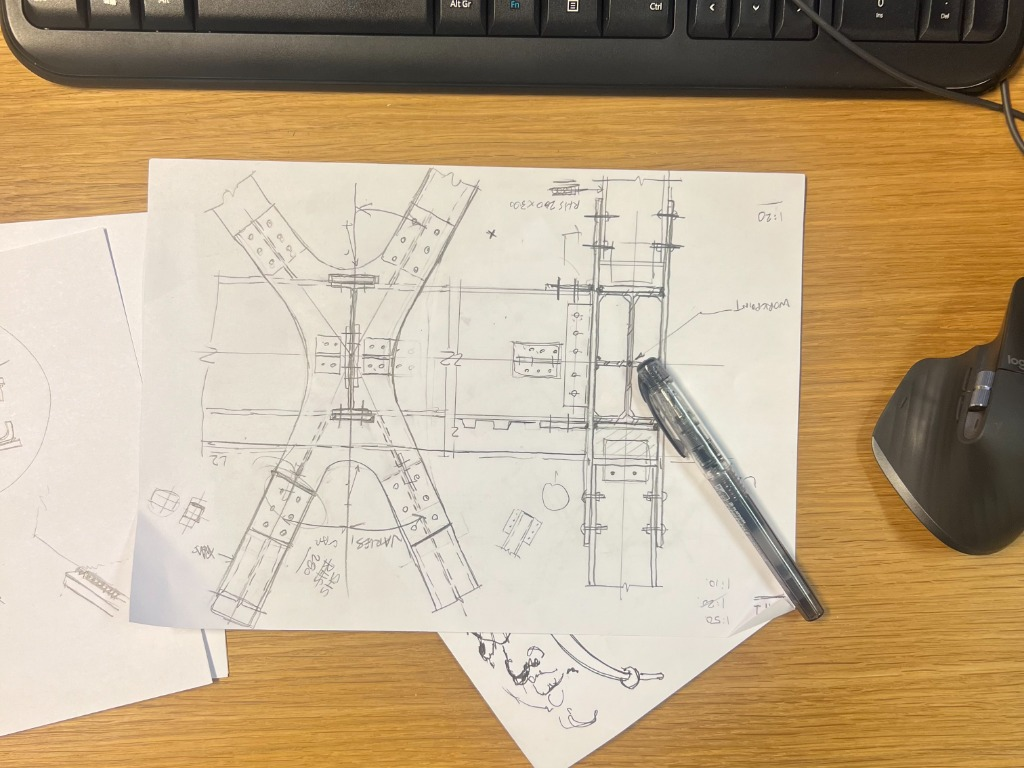
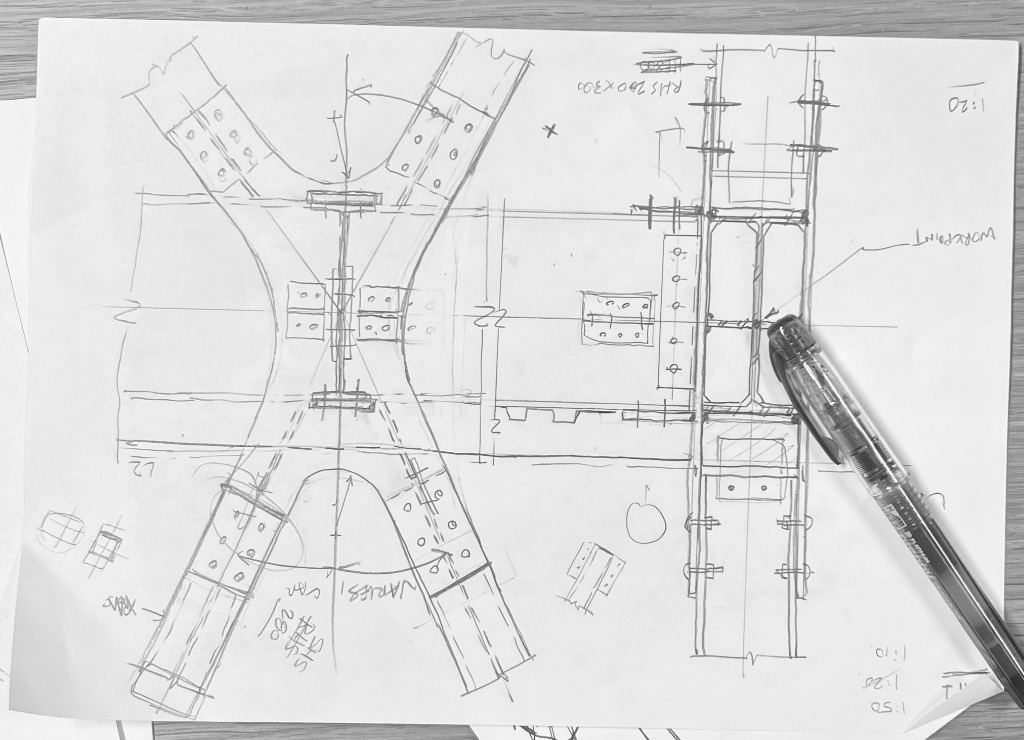
Content: update Foster + Partners description and sketch image

diff --git a/src/App.jsx b/src/App.jsx
@@ -140,7 +140,7 @@ function App() {
               
               <div className="gallery-scroll">
                 <div className="gallery-paragraph style-paragraph">
-                  Collaborated in a multidisciplinary team of 300+ on Stage 4 delivery for Poland’s CPK Airport Project. Extracted, cleaned, and manipulated complex data from global FEA models (ETABS). Designed & documented a bus station structure.
+                  My two years at Foster + Partners, on Poland's CPK Airport, taught me how complex systems of massive scale are shipped. Within a team of over 300 people, I worked at the intersection of raw data and spatial integration. I extracted and cleaned heavy datasets from global computational models (ETABS) and managed the structural coordination with the architectural envelope. It was an intensive masterclass in cross-functional collaboration, technical communication, and high-stakes delivery.
                 </div>
                 <MediaImage src="/foster-sketch.jpg" alt="Structural Engineering Sketch" className="gallery-landscape" />
               </div>
